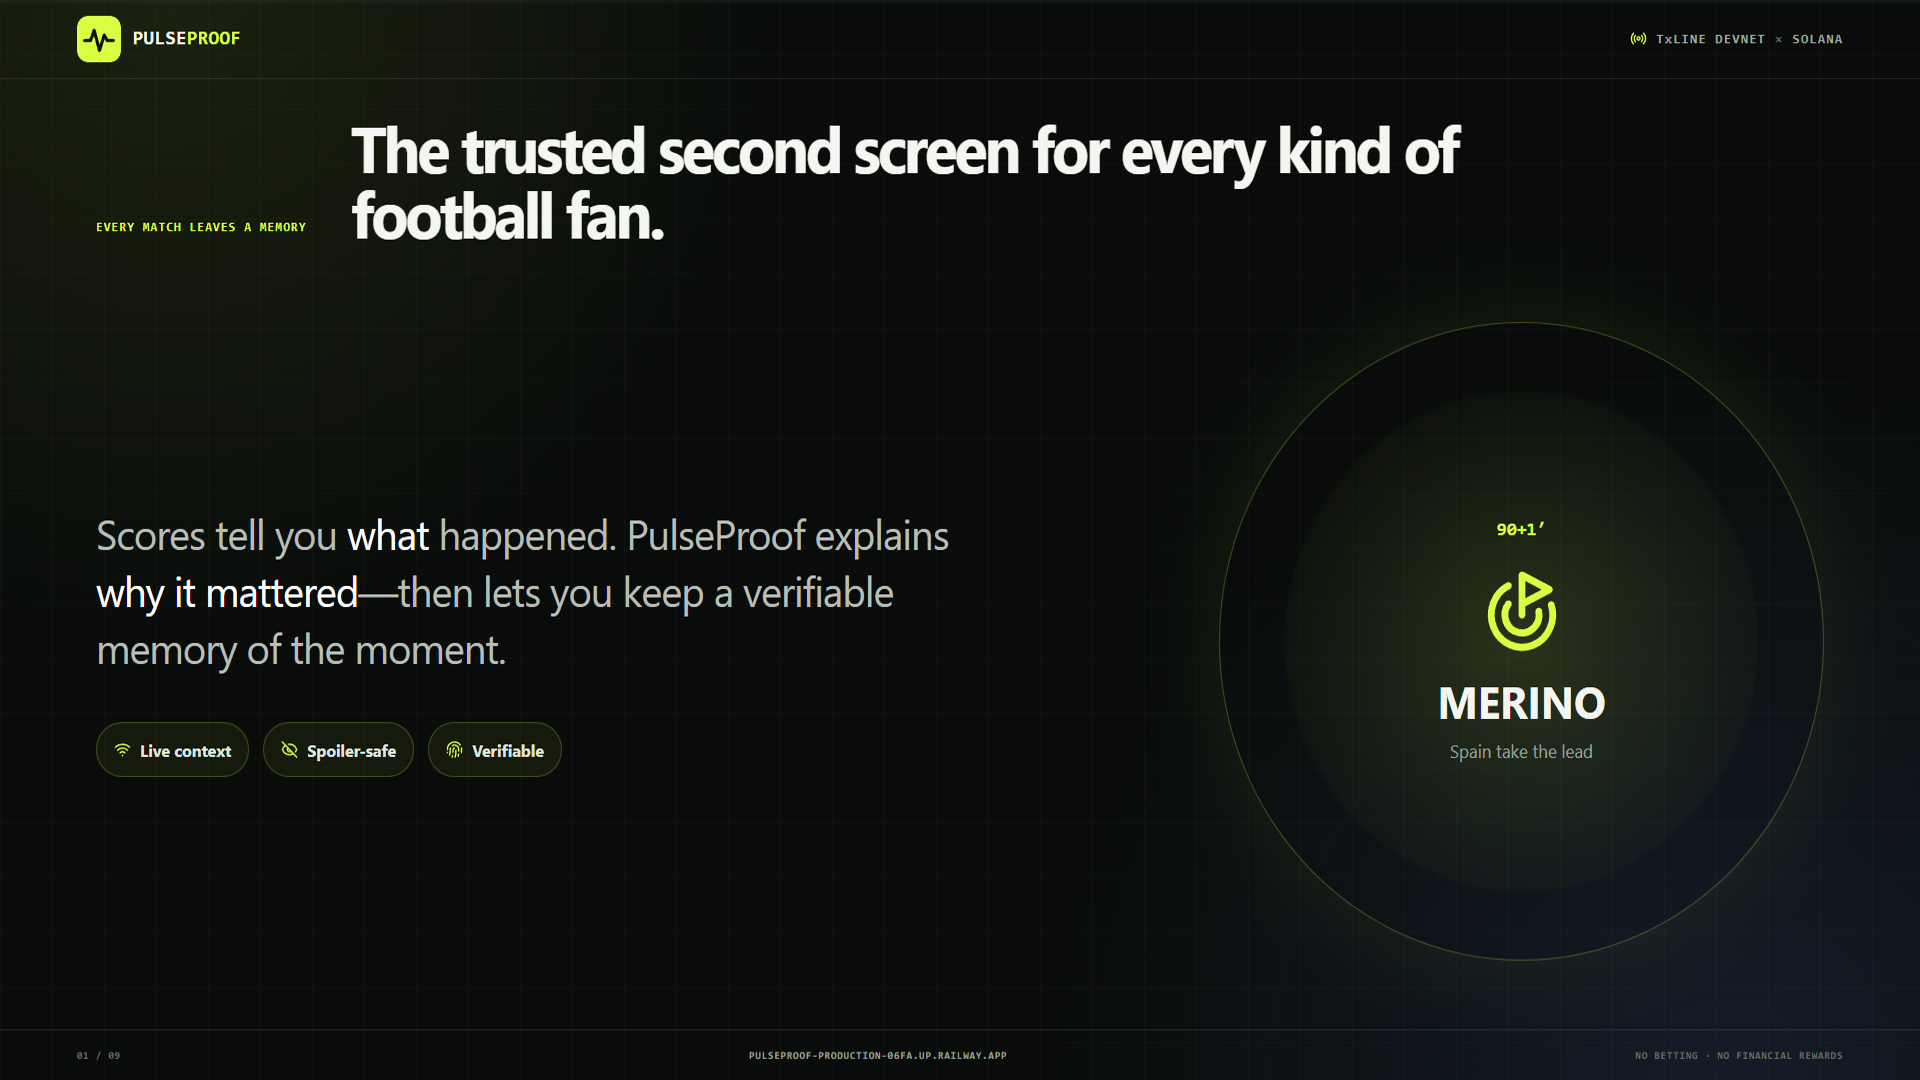
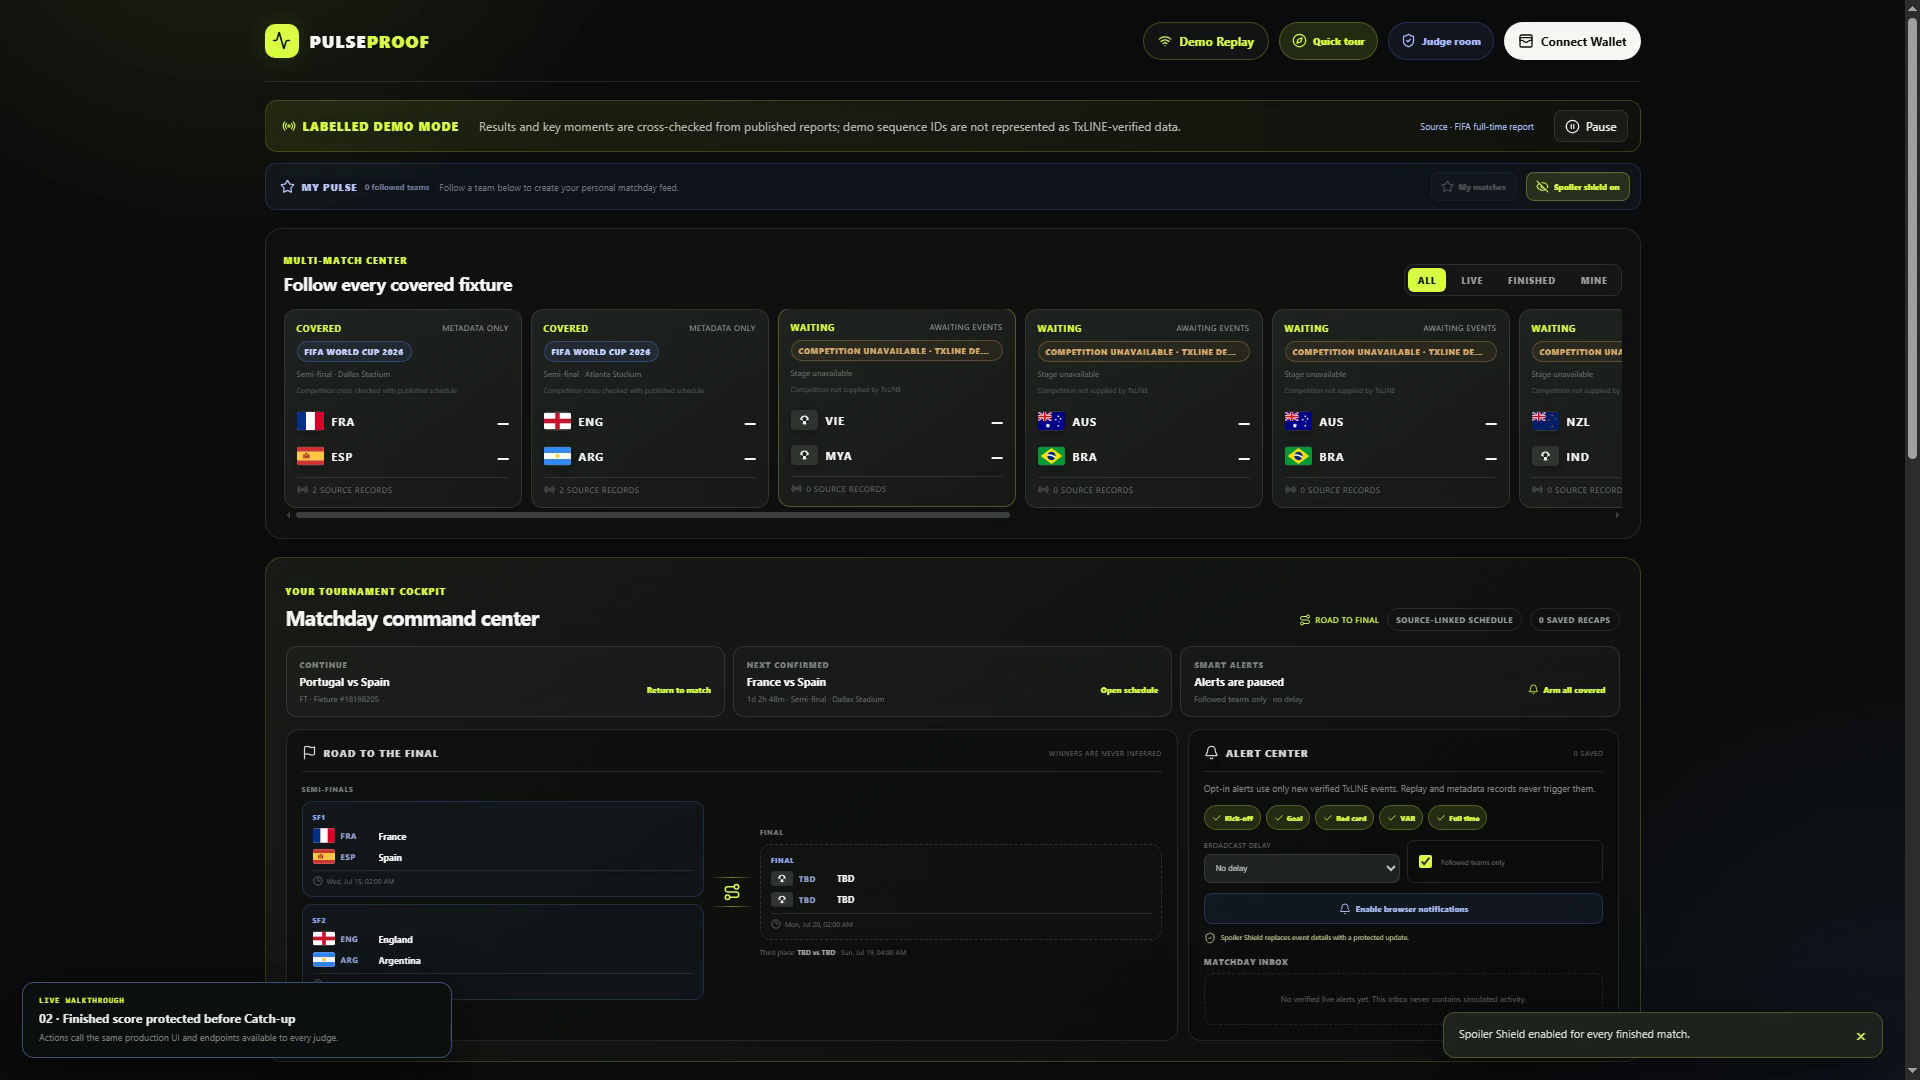
Replace pitch deck with live product demo

diff --git a/app/submission/page.tsx b/app/submission/page.tsx
@@ -33,18 +33,11 @@ const TRANSACTION = "vid5hzmuF2FJnzFvZa7251fLdh5d5eRrn4WyvPd85WVKAcnccBbJhKEUFXx
 const EXPLORER = `https://explorer.solana.com/tx/${TRANSACTION}?cluster=devnet`;
 
 const chapters = [
-  ["00:00", "A consumer problem worth solving"],
-  ["00:20", "The deployed consumer product"],
-  ["00:40", "The complete matchday loop"],
-  ["01:00", "Catch-up without spoilers"],
-  ["01:22", "TxLINE integration and accuracy"],
-  ["01:45", "Offline recap and retention"],
-  ["02:08", "Proof of Watch on Solana"],
-  ["02:29", "Public Explorer evidence"],
-  ["02:48", "Security and anti-replay"],
-  ["03:10", "Reproducible test evidence"],
-  ["03:33", "Green continuous integration"],
-  ["03:49", "Commercial path and close"],
+  ["00:00", "The late-fan problem"],
+  ["00:15", "Real deployed product walkthrough"],
+  ["01:19", "Seven fresh production checks"],
+  ["01:45", "Public Solana devnet evidence"],
+  ["02:03", "A defensible fan memory loop"],
 ];
 
 function Brand() {

diff --git a/tests/submission-assets.test.ts b/tests/submission-assets.test.ts
@@ -17,19 +17,20 @@ describe("judge submission assets", () => {
     expect(thumbnail.length).toBeGreaterThan(100_000);
   });
 
-  it("publishes twelve caption cues and ends before five minutes", () => {
+  it("publishes five live-demo caption cues and ends before five minutes", () => {
     const vtt = readFileSync(join(root, "public", "pulseproof-demo.vtt"), "utf8");
     const cues = [...vtt.matchAll(/(\d{2}):(\d{2}):(\d{2})\.(\d{3}) --> (\d{2}):(\d{2}):(\d{2})\.(\d{3})/g)];
-    expect(cues).toHaveLength(12);
+    expect(cues).toHaveLength(5);
     const final = cues.at(-1)!;
     const finalSeconds = Number(final[5]) * 3600 + Number(final[6]) * 60 + Number(final[7]) + Number(final[8]) / 1000;
     expect(finalSeconds).toBeLessThan(300);
   });
 
-  it("keeps one source frame and narration block per chapter", () => {
-    const scenes = JSON.parse(readFileSync(join(root, "submission-assets", "video", "narration-scenes.json"), "utf8")) as Array<{ frame: string; title: string; text: string }>;
-    expect(scenes).toHaveLength(12);
-    expect(new Set(scenes.map((scene) => scene.frame)).size).toBe(12);
+  it("keeps one live capture/still and narration block per chapter", () => {
+    const scenes = JSON.parse(readFileSync(join(root, "submission-assets", "video", "live-demo-scenes.json"), "utf8")) as Array<{ source: string; kind: string; title: string; text: string }>;
+    expect(scenes).toHaveLength(5);
+    expect(new Set(scenes.map((scene) => scene.source)).size).toBe(5);
+    expect(scenes.filter((scene) => scene.kind === "video")).toHaveLength(3);
     expect(scenes.every((scene) => scene.title.length > 5 && scene.text.split(/\s+/).length > 25)).toBe(true);
   });
 

diff --git a/docs/DEMO_SCRIPT.md b/docs/DEMO_SCRIPT.md
@@ -1,65 +1,51 @@
-# Demo video — delivered at 4:13.859
+# Demo video — delivered at 2:24.046
 
 Public video: `https://pulseproof-production-06fa.up.railway.app/pulseproof-demo.mp4`
 
 Judge room: `https://pulseproof-production-06fa.up.railway.app/submission`
 
-The reproducible source narration is in `submission-assets/video/narration-scenes.json`; `scripts/render-submission-video.ps1` produces the 1080p MP4, twelve WebVTT cues, full transcript and chapter metadata, and rejects any output of five minutes or longer. The outline below is the original human-recording plan retained for reference.
+The reproducible scene specification is `submission-assets/video/live-demo-scenes.json`. `scripts/render-live-demo-video.ps1` records three real browser clips from isolated Chrome profiles, mixes narration, emits five WebVTT cues plus transcript/chapter metadata, and rejects any output of five minutes or longer.
 
-## 0:00–0:30 — problem
+## 0:00–0:15 — the late-fan problem
 
-“Most football fans watch with a phone in hand, but today’s second screens are either raw scoreboards, noisy feeds or betting products. PulseProof gives mainstream fans a clear shared match pulse and a verifiable memory of the moments they actually watched—without wagers or financial rewards.”
+One concise positioning frame: a trusted second screen for a fan who arrives late, loses connectivity or wants context without spoilers.
 
-Show the dashboard hero and labelled source badge.
+## 0:15–1:19 — real deployed product walkthrough
 
-## 0:30–1:25 — fan experience
+The production app runs with the opt-in `judgeDemo=1` route and visibly labels every action as `LIVE WALKTHROUGH`.
 
-- Start the replay before recording or use a live covered match.
-- Show score, minute and stage changing.
-- Point to momentum and explain it is an engagement visual, not betting probability.
-- Show latest-signal copy and timeline receiving a goal/card/VAR event.
-- Click a watch-room option; state that reactions have no stake, entry fee or prize.
+1. Load the public World Cup finished-match replay with its published-report label.
+2. Press Spoiler Shield; all finished scores become hidden.
+3. Press Start Catch-up; the normal consumer handler fetches the replay and advances through the visible prefix.
+4. Scroll the real event timeline while the summary changes.
+5. Save the sanitised offline recap using the same UI control available to a fan.
+6. Press Judge Verification Lab; request and locally verify a fresh short-lived Ed25519 proof.
 
-## 1:25–2:15 — TxLINE integration
+## 1:19–1:45 — seven fresh production checks
 
-Open the architecture diagram or code briefly:
+The production Judge Room runs, in sequence:
 
-- `POST /auth/guest/start`
-- `/api/fixtures/snapshot`
-- `/api/scores/snapshot/{fixtureId}`
-- `/api/scores/historical/{fixtureId}`
-- `/api/scores/stat-validation?...&statKeys=`
+1. health/network/credential identity;
+2. live-versus-replay catalog separation;
+3. public SSE `ready + pulse` without polling;
+4. two-event spoiler-prefix isolation;
+5. fresh browser-side Ed25519 verification;
+6. executable TxLINE/PulseProof programs plus finalized receipt status;
+7. PWA cache boundary that excludes APIs, SSE and proofs.
 
-Explain that the token stays server-side, sequence comes from TxLINE, and raw data is transformed rather than redistributed. If replaying, say clearly: “This replay uses externally cross-checked results with locally assigned demo sequence IDs; those IDs are not TxLINE records. The same server route prioritises TxLINE whenever the activated token is configured.”
+## 1:45–2:03 — public devnet evidence
 
-## 2:15–3:25 — wallet and smart contract
+Solana Explorer visibly shows `Success`, `Finalized`, signature, fee payer and slot `475862643`. Narration explicitly calls this a reference receipt; it is not presented as a new Phantom click.
 
-- Connect the prepared devnet Phantom wallet.
-- Claim a goal or final moment.
-- Show local signature verification, then the confirmed Solana signature/explorer.
-- Explain canonical fields: wallet, fixture, moment hash, points, badge, expiry.
-- Show `FanPass` and `MomentReceipt` PDAs.
-- Attempt a duplicate claim or show the passing replay-resistance test.
+## 2:03–2:24 — differentiated close
 
-## 3:25–4:05 — architecture and safety
+The final frame explains the system-level combination: source honesty, progressive Catch-up, offline retention, non-transferable anti-replay memory and an in-product SSE-to-Solana flight recorder.
 
-- TxLINE is live sports input.
-- Attestor re-fetches the server-side record; stat-based moments also call validation proof and store only its digest.
-- Ed25519 precompile verifies the signature.
-- Contract pins attestor, requires five-minute expiry, clamps points/badge and prevents replay.
-- No FIFA branding, wagering, token rewards or API credential in the client.
+## Recording integrity checklist
 
-## 4:05–4:35 — commercial path and close
-
-“PulseProof starts free for fans. Fan clubs, media and sponsors pay for branded rooms, engagement analytics and loyalty activation. The moat is the real-time, verifiable fan graph powered by TxLINE—not resale of the data. The demo, API health route, public repo and tests are available in the submission.”
-
-End on the Proof of Watch card and repository URL.
-
-## Recording checklist
-
-- Keep final file below 5:00.
-- Browser zoom 100%; hide bookmarks/private tabs.
-- Never display API token, secret key, wallet seed or `.env`.
-- Show the source link; do not call a fallback replay “live TxLINE”.
-- Use a funded devnet wallet and pre-test the exact moment claim.
-- Record backup clip of the Solana explorer transaction.
+- H.264/AAC, 1920×1080, 30 fps, 144.046 seconds.
+- Each live clip is captured by its isolated Chrome `HWND`, not by recording the desktop.
+- No API token, secret key, seed phrase, `.env`, personal tab or private session appears.
+- Finished report replay is never called live TxLINE data.
+- The Explorer receipt is described as already finalized, not as a transaction clicked during this recording.
+- Contact-sheet and dedicated midpoint review confirm product, 7/7 proof and Explorer frames.

diff --git a/docs/JUDGE_SCORECARD.md b/docs/JUDGE_SCORECARD.md
@@ -2,17 +2,17 @@
 
 Checked: 13 July 2026.
 
-## Score if submitted today: 90/100
+## Score if submitted today: 93/100
 
-Engineering/product readiness is approximately **93/100**. The public 4:14 demo and Judge Submission Room now consolidate the product, Railway, TxLINE, CI and Explorer evidence. A recording of an actual score-changing TxLINE stream event and an uninterrupted Phantom-confirmation flow remain the material evidence gaps.
+Engineering/product readiness is approximately **95/100**. The public 2:24 video now records the deployed UI changing state, a fresh seven-step production proof run and the finalized Explorer receipt instead of relying on presentation frames. A recording of an actual score-changing TxLINE stream event and an uninterrupted Phantom-confirmation flow remain the material evidence gaps.
 
 | Area | Score | Evidence-backed judge view |
 |---|---:|---|
-| Real consumer problem and differentiation | 18/20 | The product handles a real before/during/after fan journey: fixture planning, multi-match coverage, spoiler-safe Catch-up, source provenance and Proof of Watch. It is more differentiated than a basic score page, although the community layer is still local-only. |
-| TxLINE integration | 17/20 | Participant-owned devnet subscription, fixture/snapshot/historical/stat-validation usage, canonical public SSE bridge and public `ready`/`pulse`/`heartbeat` evidence are real. A captured score-changing event from an active covered match is still missing. |
+| Real consumer problem and differentiation | 19/20 | The product handles a real before/during/after fan journey and now makes its combined moat explicit: prefix-safe Catch-up, strict source lanes, an offline-safe pack, non-transferable memory and a public verification flight recorder. The community layer is still local-only. |
+| TxLINE integration | 18/20 | Participant-owned devnet subscription, fixture/snapshot/historical/stat-validation usage, canonical public SSE bridge and a newly recorded fresh `ready + pulse` browser test are real. A captured score-changing event from an active covered match is still missing. |
 | Product and UX | 19/20 | My Pulse, local timezone, reminders, Road to Final, Smart Alerts, Quick Tour, installable PWA, consumer-safe offline Catch-up, accessibility labels, mobile layout and strict spoiler behavior form a credible consumer product. Background Web Push after the app is closed and real community state are not yet implemented. |
 | Solana relevance and security | 18/20 | Public devnet program, Config/FanPass/Receipt PDAs, Ed25519 attestation binding and anti-replay behavior are strong and non-financial. The final submission still needs a short, visible Phantom-to-Explorer UI recording that a judge can follow without reading code. |
-| Demo and submission evidence | 18/20 | A 4:14 1080p demo, captions, transcript, chapter metadata and a dedicated Judge Room present the deployed product, labelled replay, public SSE evidence, finalized Explorer claim and green CI in one path. The video honestly does not portray the existing Explorer claim as a newly clicked Phantom transaction. |
+| Demo and submission evidence | 19/20 | A 2:24 1080p demo records real product controls, state changes, seven fresh production checks and the finalized Explorer receipt. Captions, transcript, chapters and the Judge Room remain public. The video honestly does not portray the existing Explorer claim as a newly clicked Phantom transaction. |
 
 ## Why this is not honestly 95–100 yet
 
@@ -30,14 +30,14 @@ Engineering/product readiness is approximately **93/100**. The public 4:14 demo 
 - Four-step Quick Product Tour so a time-constrained judge reaches TxLINE, Catch-up and Solana evidence quickly.
 - Installable PWA and bounded Offline Recap Pack; API/SSE traffic is never cached and all verification/claim actions fail closed offline.
 - Judge Submission Room with public video player, chapters, captions, transcript and direct evidence links.
-- Reproducible 4:14 1080p renderer with source frames, English narration, chapter metadata and a hard five-minute gate.
+- Reproducible 2:24 1080p live-capture renderer with three real browser clips, English narration, chapter metadata, direct HWND isolation and a hard five-minute gate.
 - Automated coverage increased to 86 tests across 19 suites, plus a public seven-step live proof runner.
 
 ## Highest-return actions before submission
 
 1. During the next active covered fixture, capture the canonical `/api/scores/stream` output receiving a real score-changing `moment` and the UI updating from it.
 2. Record the participant-controlled Phantom wallet approving a public devnet claim and opening the resulting Explorer transaction in one uninterrupted clip.
-3. Have the human participant personally review the 4:14 narration and be able to explain every architecture/security decision before submission.
+3. Have the human participant personally review the 2:24 narration and be able to explain every architecture/security decision before submission.
 4. Only after the hackathon evidence is complete, add real Web Push and a moderated backend watch room; neither should delay the core submission.
 
 With the first two evidence gaps closed, a conservative expected score becomes **94–96/100**. A credible 100/100 cannot be guaranteed because ranking also depends on other submissions and judge preference.

diff --git a/docs/TEST_REPORT.md b/docs/TEST_REPORT.md
@@ -38,7 +38,7 @@ Result: **86/86 passed** across nineteen suites.
 - Upcoming-fixture ordering, non-negative countdowns and RFC-style calendar reminders.
 - Offline Recap Pack validation, metadata removal, raw-action sanitisation, de-duplication and an eight-match storage bound.
 - PWA manifest contract plus service-worker guarantees that API and SSE traffic are never cached.
-- Submission MP4 container/size contract, twelve caption cues, sub-five-minute final cue and one narration source per chapter.
+- Submission MP4 container/size contract, five live-demo caption cues, sub-five-minute final cue and one capture/still source per chapter.
 - Judge room contract for the public video, captions, Explorer evidence and deterministic capture slides.
 
 ## Smart-contract compilation
@@ -147,12 +147,12 @@ npm audit --omit=dev
 
 ## Submission video verification
 
-- Final duration: **253.859 seconds (4:13.859)**, below the five-minute limit enforced by the renderer.
-- Video: H.264, 1920×1080, 30 fps; audio: AAC narration; MP4 size: 7,852,683 bytes.
-- Twelve chapter markers, twelve English WebVTT caption cues and a full text transcript are included.
+- Final duration: **144.046 seconds (2:24.046)**, below the five-minute limit enforced by the renderer.
+- Video: H.264, 1920×1080, 30 fps; audio: AAC narration; MP4 size: 6,447,104 bytes.
+- Five chapter markers, five English WebVTT caption cues and a full text transcript are included.
 - A separate 1920×1080 PNG thumbnail is ready for the submission form or social preview.
-- FFmpeg volume audit measured −20.8 dB mean and −2.7 dB peak, with no clipping.
-- Visual review sampled ten points across the finished encode, including the labelled Railway product, finalized Explorer transaction and public green CI evidence.
+- FFmpeg volume audit measured −22.2 dB mean and −3.2 dB peak, with no clipping.
+- Visual review sampled ten points across the finished encode plus dedicated mid-frames. It confirms the real product walkthrough, fresh 7/7 production proof run and finalized Explorer transaction; no personal desktop/session frame is present.
 
 ## Public devnet and live-credential verification — 13 July 2026
 

diff --git a/docs/SUBMISSION.md b/docs/SUBMISSION.md
@@ -1,6 +1,6 @@
 # Submission-ready copy
 
-The 4:14 demo video, judge room, app, repository and on-chain links below are submission-ready and publicly verifiable.
+The 2:24 live product-test video, judge room, app, repository and on-chain links below are submission-ready and publicly verifiable.
 
 ## Project name
 
@@ -48,7 +48,7 @@ The fan experience remains free. Fan clubs, publishers and sponsors pay for bran
 
 - Live app: `https://pulseproof-production-06fa.up.railway.app`
 - Judge room: `https://pulseproof-production-06fa.up.railway.app/submission`
-- Demo video (4:14): `https://pulseproof-production-06fa.up.railway.app/pulseproof-demo.mp4`
+- Demo video (2:24): `https://pulseproof-production-06fa.up.railway.app/pulseproof-demo.mp4`
 - English captions: `https://pulseproof-production-06fa.up.railway.app/pulseproof-demo.vtt`
 - 1080p thumbnail: `https://pulseproof-production-06fa.up.railway.app/pulseproof-demo-thumbnail.png`
 - Public repository: `https://github.com/cryptovuive/pulseproof`

diff --git a/README.md b/README.md
@@ -9,7 +9,7 @@ PulseProof is a live football second screen that turns TxLINE score events into 
 - Public repository: [https://github.com/cryptovuive/pulseproof](https://github.com/cryptovuive/pulseproof)
 - CI: [GitHub Actions](https://github.com/cryptovuive/pulseproof/actions)
 - Judge room: [https://pulseproof-production-06fa.up.railway.app/submission](https://pulseproof-production-06fa.up.railway.app/submission)
-- 4:14 demo video: [https://pulseproof-production-06fa.up.railway.app/pulseproof-demo.mp4](https://pulseproof-production-06fa.up.railway.app/pulseproof-demo.mp4)
+- 2:24 live product demo: [https://pulseproof-production-06fa.up.railway.app/pulseproof-demo.mp4](https://pulseproof-production-06fa.up.railway.app/pulseproof-demo.mp4)
 
 The public release uses an activated TxLINE devnet token and a Railway-hosted SSE bridge. TxLINE devnet can publish fixture IDs/participants without authoritative competition or kick-off fields. PulseProof enriches only an exact current team-pair match from the separately source-linked verified schedule and labels that provenance; unmatched fixtures stay explicitly unavailable instead of receiving an invented tournament.
 